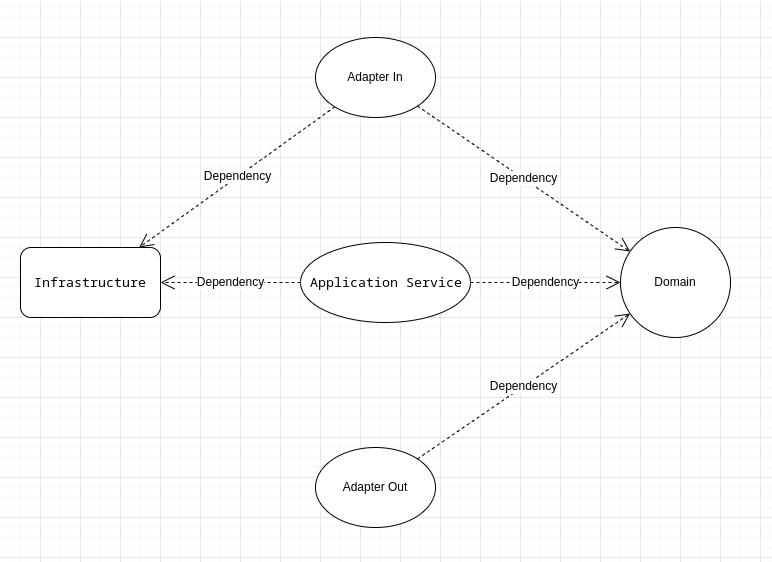
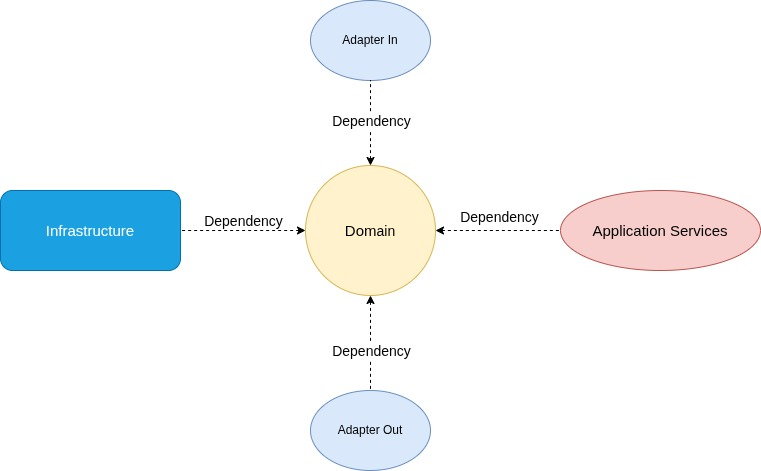
Mejorar diagrama y ajustes a readme

diff --git a/README.md b/README.md
@@ -35,7 +35,7 @@ Se aplicaron los **principios SOLID**, priorizando mantenibilidad, testabilidad 
 
 ## Funcionalidades Implementadas
 
-- Registro de usuarios con validaciones complejas y lista de teléfonos.
+- Registro de usuarios con validaciones y lista de teléfonos.
 - Autenticación por email y contraseña, con emisión de token JWT.
 - Validación de usuarios autenticados en endpoints protegidos.
 - Cambiar estado activo/inactivo del usuario.
